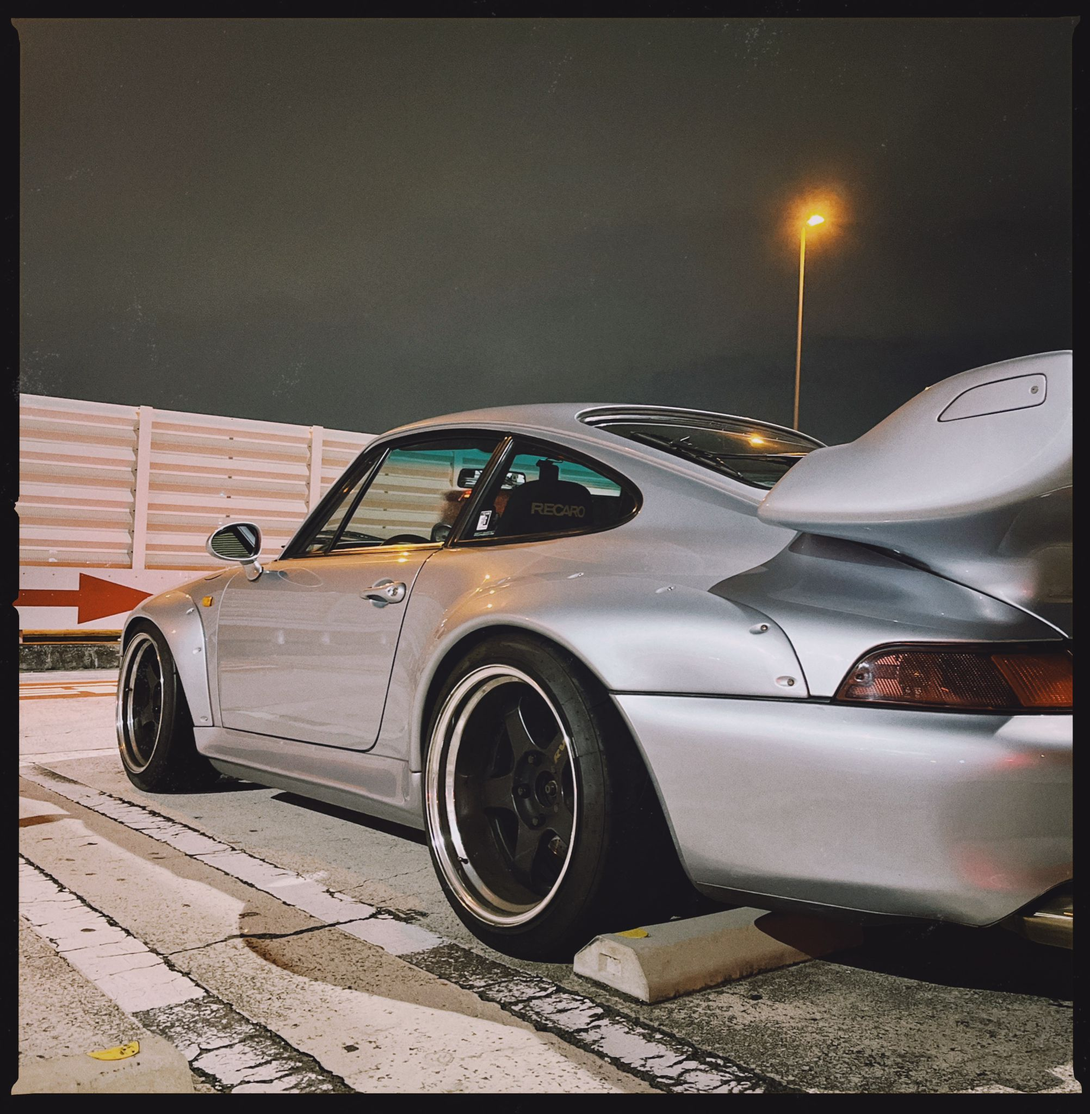
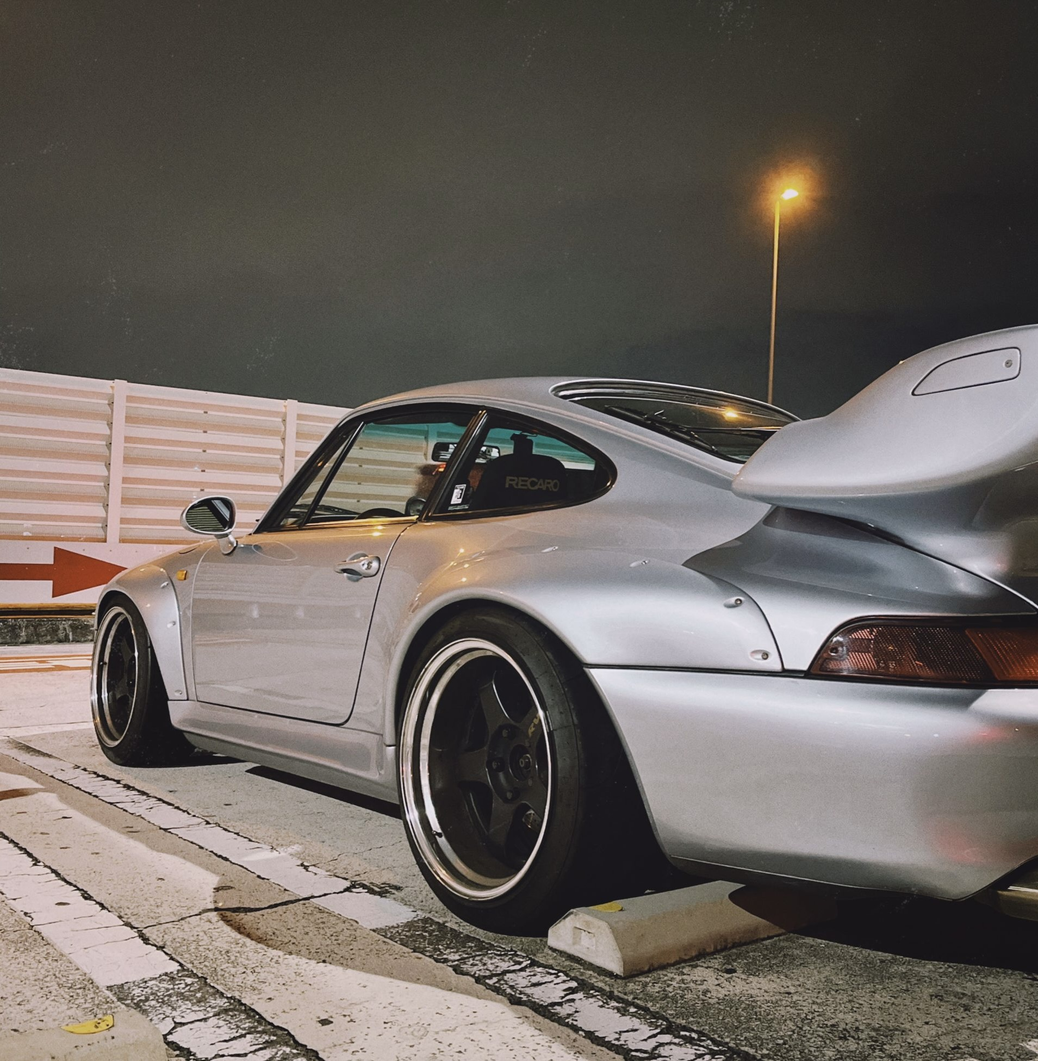
fix

diff --git a/src/components/daikoku/about/SpotSection/index.tsx b/src/components/daikoku/about/SpotSection/index.tsx
@@ -27,7 +27,7 @@ export const SpotSection: React.FC = () => {
           Looking to take your team away on a retreat to enjoy awesome food and
           take in some sunshine? We have a list of places to do just that.
         </Card>
-        <Card title={"Tatsumi PA"} imageUrl={"/tatsumi-4.jpeg"}>
+        <Card title={"Tatsumi PA"} imageUrl={"/tatsumi-2.jpeg"}>
           Looking to take your team away on a retreat to enjoy awesome food and
           take in some sunshine? We have a list of places to do just that.
         </Card>
